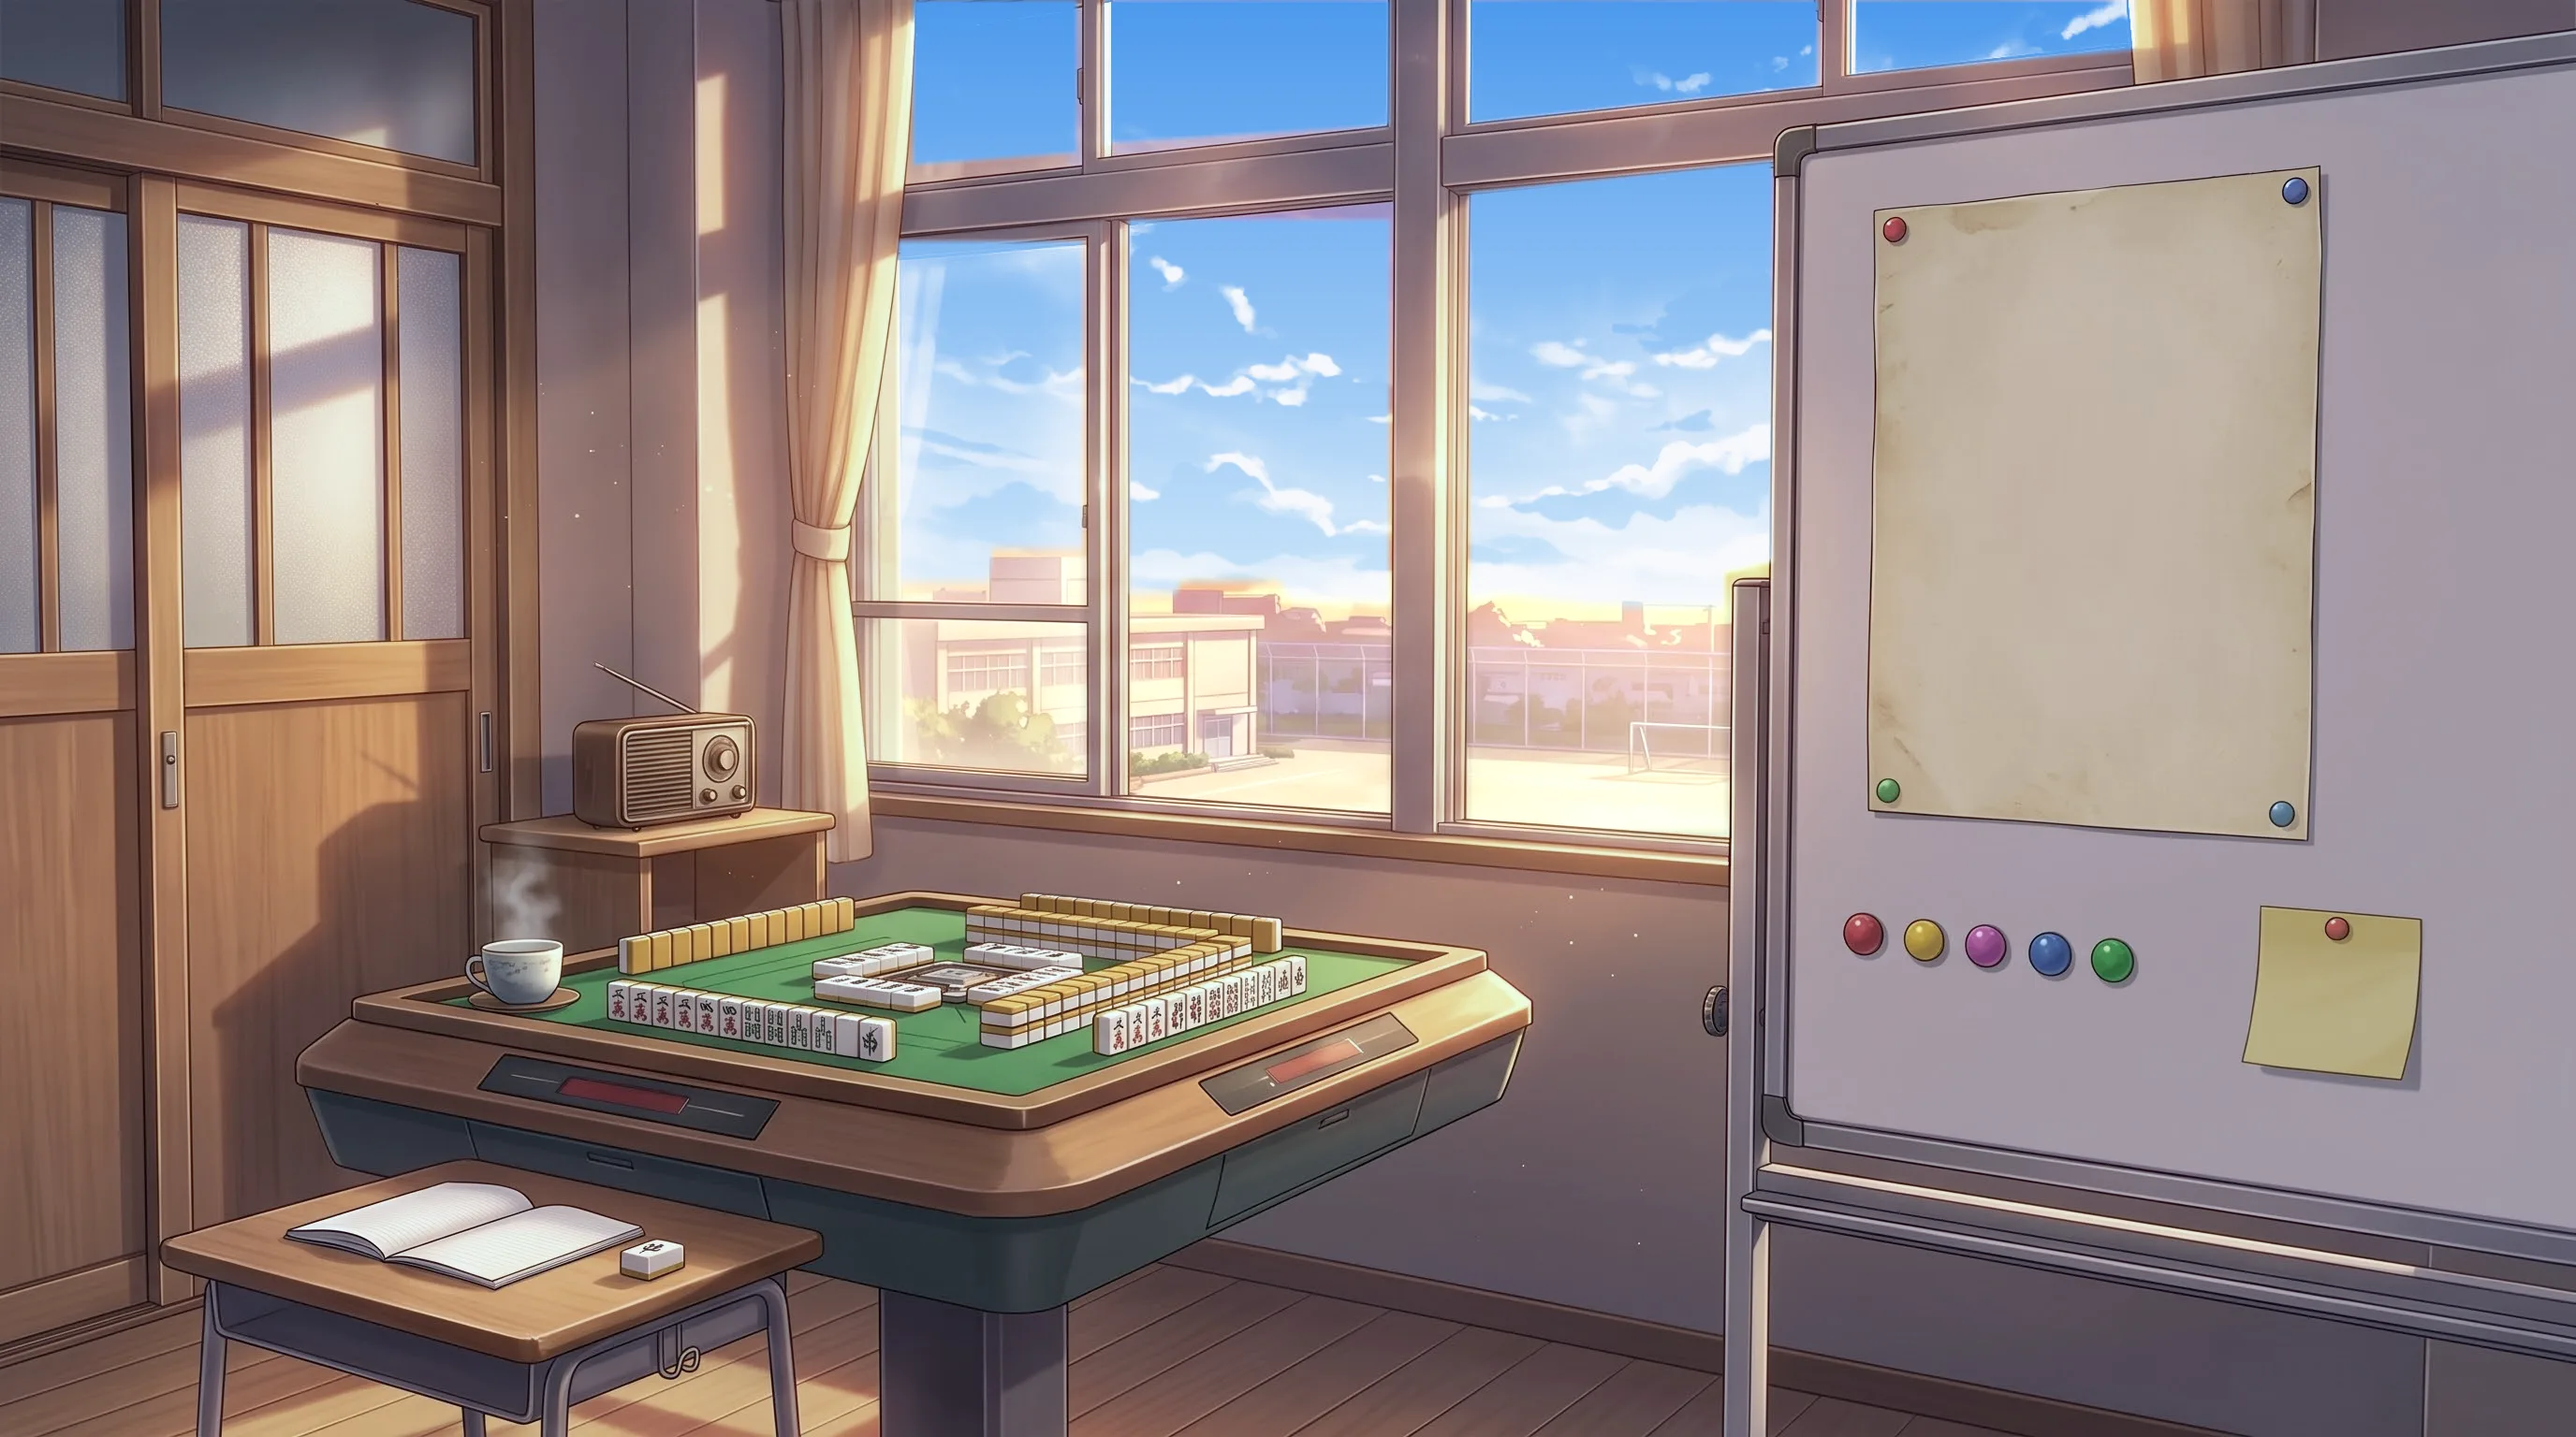
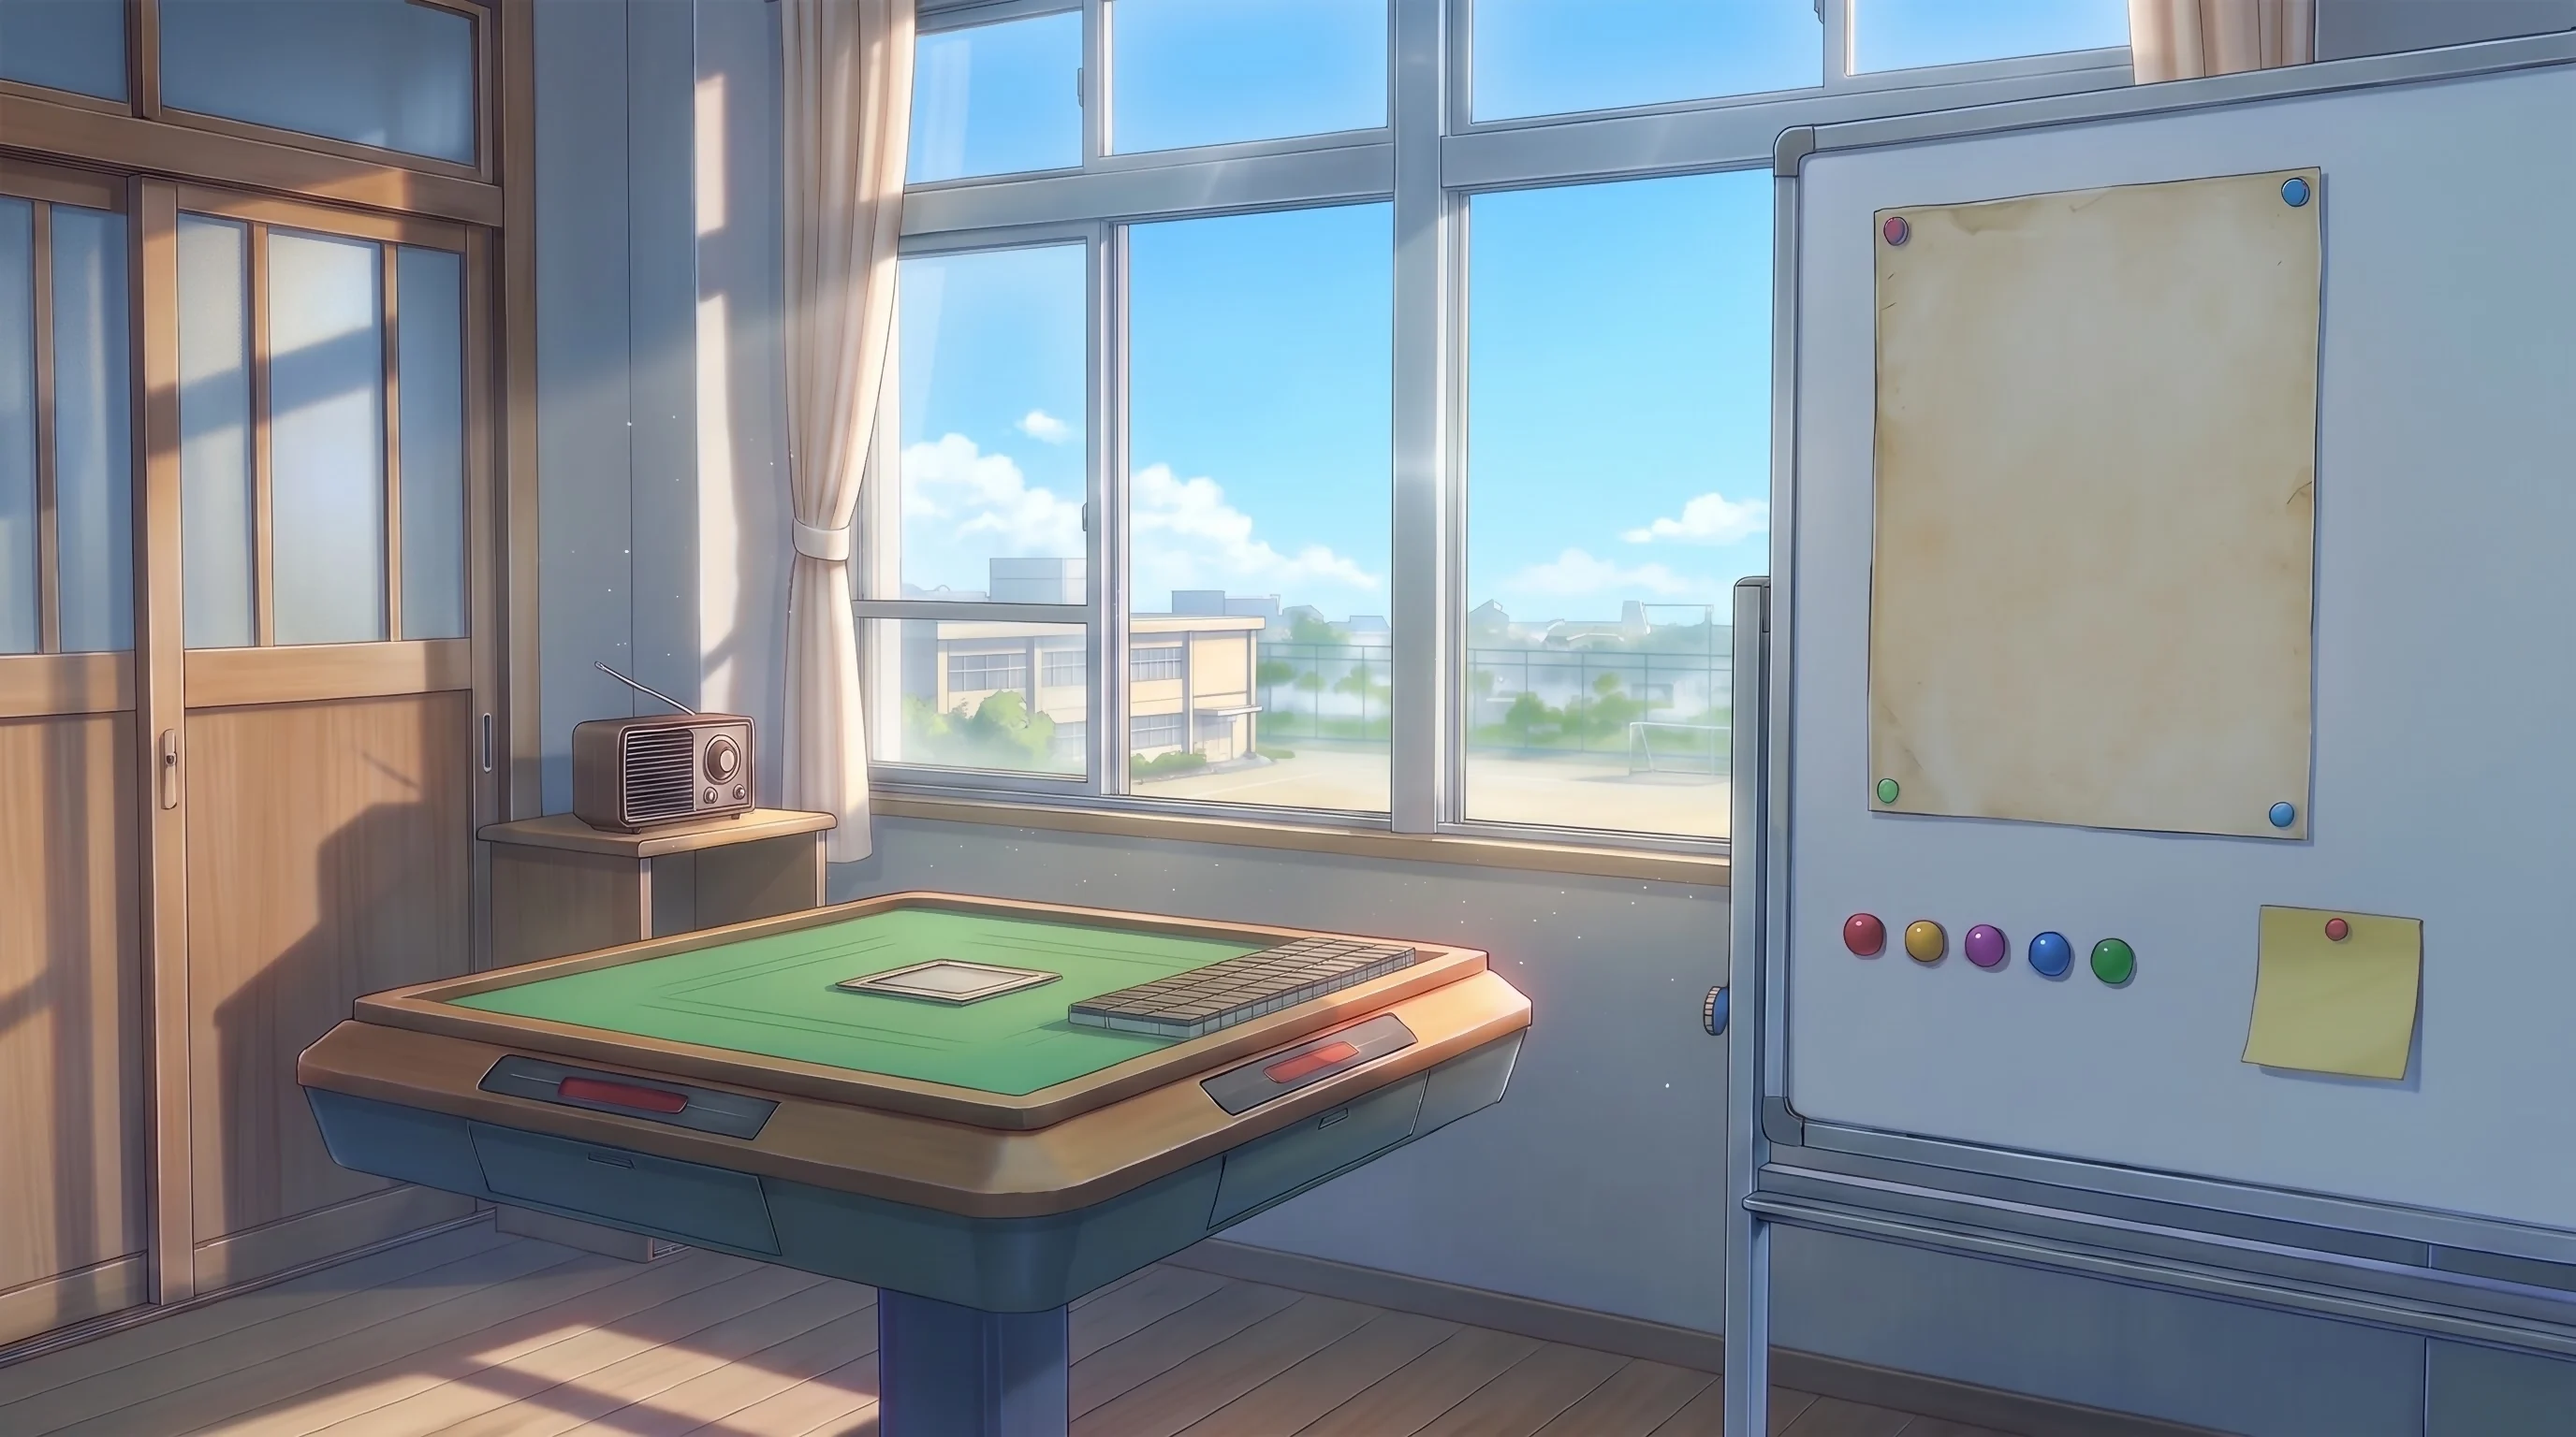
主页换上用户的四张部室图：清晨、白天、黄昏、夜晚
用户在 Gemini 出了同一构图的四张（去掉了左下的小书桌）。黄昏那张桌上的牌是乱画的，换成清晨那张的空桌面，
毛毡和木框分开对成黄昏的颜色，茶杯留着；后排牌顶露在桌框上面的一截也换掉。另外三张重画过的线条锐化发毛，
做了一次轻微的保边平滑。时间分四段（5–9 清晨、9–16 白天、16–19 黄昏、其余夜晚），点窗户四个轮着换；
茶的热气只在有茶杯的黄昏出现。

diff --git a/src/ui/home.ts b/src/ui/home.ts
@@ -2,26 +2,28 @@ import './home.css';
 import { playClick, playFlip, playLily } from './sound';
 import { type TransitionKind, transition } from './transition';
 
-// 主页：麻将部的部室（用户用 Gemini 画的一张图，public/home/ 下白天、黄昏、夜晚各一张）。
+// 主页：麻将部的部室（用户用 Gemini 画的图，public/home/ 下清晨、白天、黄昏、夜晚各一张，构图一样）。
+// 黄昏那张原来桌上摆着画错的牌，换成了清晨那张的空桌面（只留茶杯），所以茶的热气只有黄昏有。
 // 图上的东西就是入口：
 // - 白板上那张纸写着三种玩法（个人对局、团体赛、全国大赛），点一行，红笔圈一下再进去
 // - 便签上画一个小齿轮：设置（对局、视觉、声音三页在一个面板里）
-// - 收音机：角色图鉴；中间的麻将桌：随机出场（坐下就打）；窗户：换个时间（白天 → 黄昏 → 夜晚）
+// - 收音机：角色图鉴；中间的麻将桌：随机出场（坐下就打）；窗户：换个时间（清晨 → 白天 → 黄昏 → 夜晚）
 //
 // 整张图按原图像素排在一个 2752×1536 的舞台上，再整体缩放铺满屏幕；纸和便签上的字用 matrix3d 贴到图里纸的四个角上，
 // 所以斜着、近大远小都对得上。屏幕比图窄很多（手机竖屏、平板）时不硬裁，改成左右拖着看，一开始停在白板那边。
 // 点击走 App.onClick（data-ui：home-go、open-settings、codex），换时间在这里自己处理。
 
-export type HomeTod = 'day' | 'dusk' | 'night';
-const TODS: HomeTod[] = ['day', 'dusk', 'night'];
-const TOD_NAME: Record<HomeTod, string> = { day: '白天', dusk: '黄昏', night: '夜晚' };
+export type HomeTod = 'dawn' | 'day' | 'dusk' | 'night';
+export const TODS: HomeTod[] = ['dawn', 'day', 'dusk', 'night'];
+const TOD_NAME: Record<HomeTod, string> = { dawn: '清晨', day: '白天', dusk: '黄昏', night: '夜晚' };
 
 export const IMG_W = 2752;
 export const IMG_H = 1536;
 
-// 灯光跟着本地时间：5 点到 16 点白天，16 点到 19 点黄昏，其余是夜里。点窗户换过的这一次打开里一直照换过的
+// 跟着本地时间：5 点到 9 点清晨，9 点到 16 点白天，16 点到 19 点黄昏，其余是夜里。点窗户换过的这一次打开里一直照换过的
 export function timeOfDay(hour = new Date().getHours()): HomeTod {
-  if (hour >= 5 && hour < 16) return 'day';
+  if (hour >= 5 && hour < 9) return 'dawn';
+  if (hour >= 9 && hour < 16) return 'day';
   if (hour >= 16 && hour < 19) return 'dusk';
   return 'night';
 }
@@ -303,7 +305,7 @@ export function mountHome(room: HTMLElement): void {
     el.addEventListener('blur', () => showTip(null));
   }
 
-  // 窗户：白天 → 黄昏 → 夜晚，新图淡进来
+  // 窗户：清晨 → 白天 → 黄昏 → 夜晚，新图淡进来
   room.querySelector<HTMLElement>('.hr-window')?.addEventListener('click', (e) => {
     const btn = e.currentTarget as HTMLElement;
     const now = room.dataset.tod as HomeTod;

diff --git a/src/ui/home.css b/src/ui/home.css
@@ -11,7 +11,8 @@
   -webkit-user-select: none;
   font-family: 'Noto Sans SC', 'PingFang SC', 'Microsoft YaHei', sans-serif;
 }
-.home-room[data-tod='day'] { background: #8f8a86; }
+.home-room[data-tod='day'],
+.home-room[data-tod='dawn'] { background: #8f8a96; }
 .home-room[data-tod='night'] { background: #14131f; }
 
 .hr-sr {
@@ -85,7 +86,8 @@
   scale: var(--s);
   animation: hr-mote var(--d) ease-in-out var(--o) infinite;
 }
-.home-room[data-tod='day'] .hr-motes i {
+.home-room[data-tod='day'] .hr-motes i,
+.home-room[data-tod='dawn'] .hr-motes i {
   background: rgba(255, 255, 255, 0.85);
   box-shadow: 0 0 6px rgba(255, 255, 255, 0.8);
 }
@@ -99,6 +101,10 @@
   100% { opacity: 0; translate: 46px -70px; }
 }
 
+/* 只有黄昏那张桌上有茶杯 */
+.home-room:not([data-tod='dusk']) .hr-steam {
+  display: none;
+}
 .hr-steam {
   position: absolute;
   width: 80px;

diff --git a/src/ui/codex.ts b/src/ui/codex.ts
@@ -2,7 +2,7 @@ import './codex.css';
 import { CHARACTERS, type Character } from '../abilities/characters';
 import { POSITIONS } from '../team/team';
 import { portraitUrl } from '../ui3d/looks';
-import { type HomeTod, timeOfDay } from './home';
+import { type HomeTod, TODS, timeOfDay } from './home';
 import { SCHOOLS, membersOf } from './schools';
 import { playFlip } from './sound';
 
@@ -15,7 +15,7 @@ const esc = (s: string) => s.replace(/[&<>"]/g, (c) => ({ '&': '&amp;', '<': '&l
 function todNow(): HomeTod {
   try {
     const v = sessionStorage.getItem('saki-home-tod') as HomeTod | null;
-    if (v === 'day' || v === 'dusk' || v === 'night') return v;
+    if (v && TODS.includes(v)) return v;
   } catch {
     // 照时间
   }
